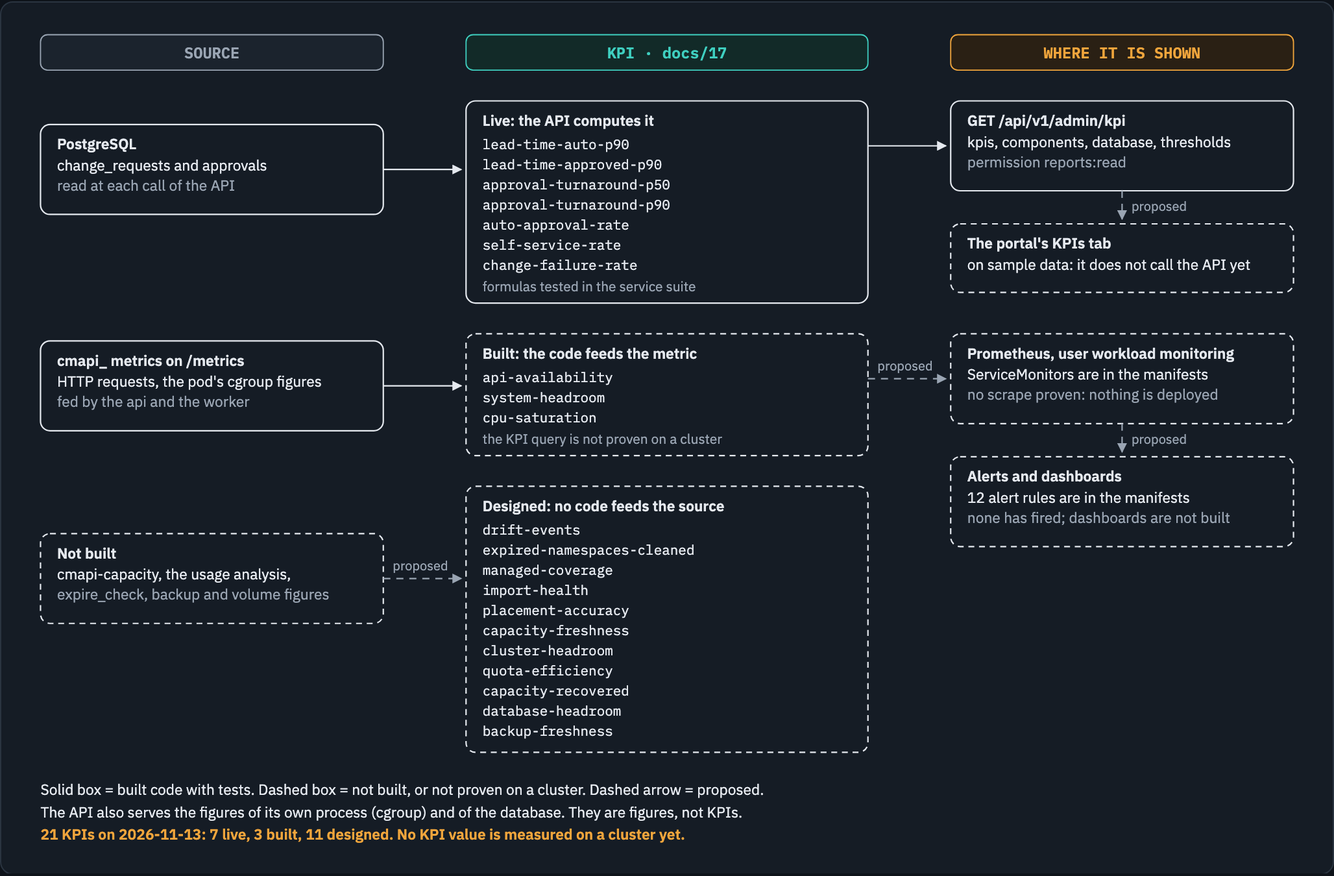
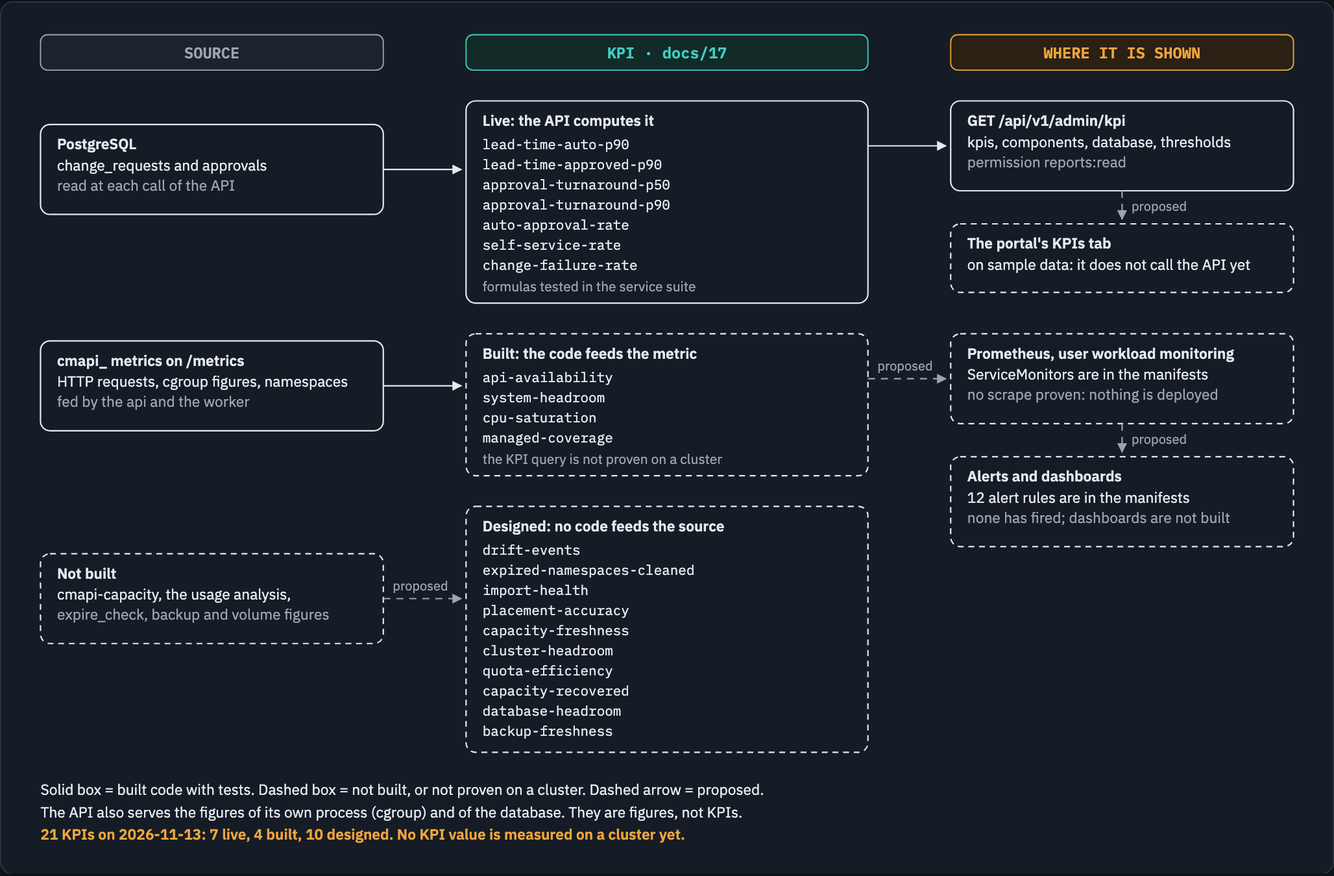
BUG-43: cmapi_namespaces is a collector over the watch caches, and the unfed cmapi_sync_drift_total is removed
Closes #172. cmapi_namespaces{cluster_id, state} counts managed, unmanaged and excluded namespaces at each scrape; a cluster that
is not listed has no sample. No code sees an OutOfSync state with no open request, so the drift counter is not declared until
that detection exists (Wave 2): a counter with no sample reads as no drift. docs/17: managed-coverage is built (7 live, 4 built,
10 designed), and the figure is rendered again. Fable 5.2 wrote each file of this commit.

Changed region(s): [[0.2802, 0.4978, 0.5603, 0.6844], [0.0311, 0.6222, 0.249, 0.7156], [0.1245, 0.4356, 0.249, 0.4667]]

diff --git a/docs/diagrams/kpis/source.html b/docs/diagrams/kpis/source.html
@@ -69,7 +69,7 @@ a { color: var(--remote); }
     <h2>The KPIs by status</h2>
     <figure>
       <div class="fig-scroll">
-        <svg viewBox="0 0 1100 711" role="img" aria-label="Seven KPIs are live: the API computes them from the database. Three are built: the code feeds their metrics, and a dashboard query is not proven. Eleven are designed. The API serves the live KPIs and the system figures; Prometheus, the dashboards and the alerts are not proven on a cluster.">
+        <svg viewBox="0 0 1100 711" role="img" aria-label="Seven KPIs are live: the API computes them from the database. Four are built: the code feeds their metrics, and a dashboard query is not proven. Ten are designed. The API serves the live KPIs and the system figures; Prometheus, the dashboards and the alerts are not proven on a cluster.">
           <defs><marker id="ahk" viewBox="0 0 10 10" refX="9" refY="5" markerWidth="7" markerHeight="7" orient="auto-start-reverse"><path d="M0,0 L10,5 L0,10 z" fill="context-stroke"/></marker></defs>
           <g font-family="IBM Plex Sans, sans-serif" font-size="12.5" fill="currentColor">
 <g font-family="IBM Plex Mono, monospace" font-size="13" font-weight="600"><rect x="20" y="14" width="290" height="30" rx="6" fill="var(--none-wash)" stroke="var(--none)"/><text x="165" y="34" text-anchor="middle" fill="var(--none)">SOURCE</text><rect x="380" y="14" width="340" height="30" rx="6" fill="var(--remote-wash)" stroke="var(--remote)"/><text x="550" y="34" text-anchor="middle" fill="var(--remote)">KPI  ·  docs/17</text><rect x="790" y="14" width="290" height="30" rx="6" fill="var(--host-wash)" stroke="var(--host)"/><text x="935" y="34" text-anchor="middle" fill="var(--host)">WHERE IT IS SHOWN</text></g>
@@ -83,17 +83,17 @@ a { color: var(--remote); }
 <text x="394" y="196" font-family="IBM Plex Mono, monospace" font-size="11.5">self-service-rate</text>
 <text x="394" y="213" font-family="IBM Plex Mono, monospace" font-size="11.5">change-failure-rate</text>
 <text x="394" y="231" font-size="11.5" fill="var(--muted)">formulas tested in the service suite</text>
-<rect x="380" y="267" width="340" height="103" rx="8" fill="var(--surface)" stroke="currentColor" stroke-width="1.2" stroke-dasharray="5 4"/>
+<rect x="380" y="267" width="340" height="120" rx="8" fill="var(--surface)" stroke="currentColor" stroke-width="1.2" stroke-dasharray="5 4"/>
 <text x="394" y="288" font-weight="600">Built: the code feeds the metric</text>
 <text x="394" y="308" font-family="IBM Plex Mono, monospace" font-size="11.5">api-availability</text>
 <text x="394" y="325" font-family="IBM Plex Mono, monospace" font-size="11.5">system-headroom</text>
 <text x="394" y="342" font-family="IBM Plex Mono, monospace" font-size="11.5">cpu-saturation</text>
-<text x="394" y="360" font-size="11.5" fill="var(--muted)">the KPI query is not proven on a cluster</text>
-<rect x="380" y="396" width="340" height="225" rx="8" fill="var(--surface)" stroke="currentColor" stroke-width="1.2" stroke-dasharray="5 4"/>
-<text x="394" y="417" font-weight="600">Designed: no code feeds the source</text>
-<text x="394" y="437" font-family="IBM Plex Mono, monospace" font-size="11.5">drift-events</text>
-<text x="394" y="454" font-family="IBM Plex Mono, monospace" font-size="11.5">expired-namespaces-cleaned</text>
-<text x="394" y="471" font-family="IBM Plex Mono, monospace" font-size="11.5">managed-coverage</text>
+<text x="394" y="359" font-family="IBM Plex Mono, monospace" font-size="11.5">managed-coverage</text>
+<text x="394" y="377" font-size="11.5" fill="var(--muted)">the KPI query is not proven on a cluster</text>
+<rect x="380" y="413" width="340" height="208" rx="8" fill="var(--surface)" stroke="currentColor" stroke-width="1.2" stroke-dasharray="5 4"/>
+<text x="394" y="434" font-weight="600">Designed: no code feeds the source</text>
+<text x="394" y="454" font-family="IBM Plex Mono, monospace" font-size="11.5">drift-events</text>
+<text x="394" y="471" font-family="IBM Plex Mono, monospace" font-size="11.5">expired-namespaces-cleaned</text>
 <text x="394" y="488" font-family="IBM Plex Mono, monospace" font-size="11.5">import-health</text>
 <text x="394" y="505" font-family="IBM Plex Mono, monospace" font-size="11.5">placement-accuracy</text>
 <text x="394" y="522" font-family="IBM Plex Mono, monospace" font-size="11.5">capacity-freshness</text>
@@ -109,15 +109,15 @@ a { color: var(--remote); }
 <polyline points="310,128 376,128" fill="none" stroke="currentColor" stroke-width="1.2" marker-end="url(#ahk)"/>
 <rect x="20" y="273" width="290" height="76" rx="8" fill="var(--surface)" stroke="currentColor" stroke-width="1.2"/>
 <text x="34" y="294" font-weight="600">cmapi_ metrics on /metrics</text>
-<text x="34" y="312">HTTP requests, the pod&#x27;s cgroup figures</text>
+<text x="34" y="312">HTTP requests, cgroup figures, namespaces</text>
 <text x="34" y="329" fill="var(--muted)">fed by the api and the worker</text>
 <polyline points="310,311 376,311" fill="none" stroke="currentColor" stroke-width="1.2" marker-end="url(#ahk)"/>
-<rect x="20" y="436" width="290" height="76" rx="8" fill="var(--surface)" stroke="currentColor" stroke-width="1.2" stroke-dasharray="5 4"/>
-<text x="34" y="457" font-weight="600">Not built</text>
-<text x="34" y="475">cmapi-capacity, the usage analysis,</text>
-<text x="34" y="492" fill="var(--muted)">expire_check, backup and volume figures</text>
-<polyline points="310,474 376,474" fill="none" stroke="var(--muted)" stroke-width="1.2" stroke-dasharray="6 5" marker-end="url(#ahk)"/>
-<text x="318" y="467" font-size="11" fill="var(--muted)" text-anchor="start">proposed</text>
+<rect x="20" y="453" width="290" height="76" rx="8" fill="var(--surface)" stroke="currentColor" stroke-width="1.2" stroke-dasharray="5 4"/>
+<text x="34" y="474" font-weight="600">Not built</text>
+<text x="34" y="492">cmapi-capacity, the usage analysis,</text>
+<text x="34" y="509" fill="var(--muted)">expire_check, backup and volume figures</text>
+<polyline points="310,491 376,491" fill="none" stroke="var(--muted)" stroke-width="1.2" stroke-dasharray="6 5" marker-end="url(#ahk)"/>
+<text x="318" y="484" font-size="11" fill="var(--muted)" text-anchor="start">proposed</text>
 <rect x="790" y="70" width="290" height="76" rx="8" fill="var(--surface)" stroke="currentColor" stroke-width="1.2"/>
 <text x="804" y="91" font-weight="600">GET /api/v1/admin/kpi</text>
 <text x="804" y="109">kpis, components, database, thresholds</text>
@@ -142,7 +142,7 @@ a { color: var(--remote); }
 <text x="943" y="360" font-size="11" fill="var(--muted)" text-anchor="start">proposed</text>
 <text x="20" y="657">Solid box = built code with tests. Dashed box = not built, or not proven on a cluster. Dashed arrow = proposed.</text>
 <text x="20" y="676">The API also serves the figures of its own process (cgroup) and of the database. They are figures, not KPIs.</text>
-<text x="20" y="695" fill="var(--host)" font-weight="600">21 KPIs on 2026-11-13: 7 live, 3 built, 11 designed. No KPI value is measured on a cluster yet.</text>
+<text x="20" y="695" fill="var(--host)" font-weight="600">21 KPIs on 2026-11-13: 7 live, 4 built, 10 designed. No KPI value is measured on a cluster yet.</text>
           </g>
         </svg>
       </div>

diff --git a/docs/diagrams/tools/draft-kpis.py b/docs/diagrams/tools/draft-kpis.py
@@ -27,8 +27,8 @@ b.append('<g font-family="IBM Plex Mono, monospace" font-size="13" font-weight="
          '<rect x="380" y="14" width="340" height="30" rx="6" fill="var(--remote-wash)" stroke="var(--remote)"/><text x="550" y="34" text-anchor="middle" fill="var(--remote)">KPI  ·  docs/17</text>'
          '<rect x="790" y="14" width="290" height="30" rx="6" fill="var(--host-wash)" stroke="var(--host)"/><text x="935" y="34" text-anchor="middle" fill="var(--host)">WHERE IT IS SHOWN</text></g>')
 live = ["lead-time-auto-p90", "lead-time-approved-p90", "approval-turnaround-p50", "approval-turnaround-p90", "auto-approval-rate", "self-service-rate", "change-failure-rate"]
-built = ["api-availability", "system-headroom", "cpu-saturation"]
-designed = ["drift-events", "expired-namespaces-cleaned", "managed-coverage", "import-health", "placement-accuracy",
+built = ["api-availability", "system-headroom", "cpu-saturation", "managed-coverage"]
+designed = ["drift-events", "expired-namespaces-cleaned", "import-health", "placement-accuracy",
             "capacity-freshness", "cluster-headroom", "quota-efficiency", "capacity-recovered", "database-headroom", "backup-freshness"]
 y1 = 70
 s, h1 = listbox(380, y1, 340, "Live: the API computes it", live, note="formulas tested in the service suite"); b.append(s)
@@ -39,7 +39,7 @@ s, h3 = listbox(380, y3, 340, "Designed: no code feeds the source", designed, da
 # sources
 b.append(box(20, y1 + 20, 290, 76, "PostgreSQL", ["change_requests and approvals", "read at each call of the API"]))
 b.append(arrow([(310, y1 + 58), (376, y1 + 58)], mid))
-b.append(box(20, y2 + 6, 290, 76, "cmapi_ metrics on /metrics", ["HTTP requests, the pod's cgroup figures", "fed by the api and the worker"]))
+b.append(box(20, y2 + 6, 290, 76, "cmapi_ metrics on /metrics", ["HTTP requests, cgroup figures, namespaces", "fed by the api and the worker"]))
 b.append(arrow([(310, y2 + 44), (376, y2 + 44)], mid))
 b.append(box(20, y3 + 40, 290, 76, "Not built", ["cmapi-capacity, the usage analysis,", "expire_check, backup and volume figures"], dashed=True))
 b.append(arrow([(310, y3 + 78), (376, y3 + 78)], mid, "proposed", 318, y3 + 71, stroke="var(--muted)", dashed=True))
@@ -55,9 +55,9 @@ b.append(arrow([(935, y2 + 76), (935, y2 + 100)], mid, "proposed", 943, y2 + 93,
 fy = y3 + h3 + 36
 b.append(f'<text x="20" y="{fy}">Solid box = built code with tests. Dashed box = not built, or not proven on a cluster. Dashed arrow = proposed.</text>')
 b.append(f'<text x="20" y="{fy+19}">The API also serves the figures of its own process (cgroup) and of the database. They are figures, not KPIs.</text>')
-b.append(f'<text x="20" y="{fy+38}" fill="var(--host)" font-weight="600">21 KPIs on 2026-11-13: 7 live, 3 built, 11 designed. No KPI value is measured on a cluster yet.</text>')
-aria = ("Seven KPIs are live: the API computes them from the database. Three are built: the code feeds their metrics, and a dashboard query is not proven. "
-        "Eleven are designed. The API serves the live KPIs and the system figures; Prometheus, the dashboards and the alerts are not proven on a cluster.")
+b.append(f'<text x="20" y="{fy+38}" fill="var(--host)" font-weight="600">21 KPIs on 2026-11-13: 7 live, 4 built, 10 designed. No KPI value is measured on a cluster yet.</text>')
+aria = ("Seven KPIs are live: the API computes them from the database. Four are built: the code feeds their metrics, and a dashboard query is not proven. "
+        "Ten are designed. The API serves the live KPIs and the system figures; Prometheus, the dashboards and the alerts are not proven on a cluster.")
 cap = ("Each KPI has one row in docs/17 with its formula and target. The live KPIs come from the request table, so the API can answer without Prometheus. "
        "The built KPIs need a Prometheus query, which waits for the first deployment.")
 out = TARGET

diff --git a/cmapi/src/cmapi/core/kpi.py b/cmapi/src/cmapi/core/kpi.py
@@ -17,6 +17,8 @@ from prometheus_client import REGISTRY
 from prometheus_client.core import CounterMetricFamily, GaugeMetricFamily
 from sqlalchemy import text
 
+from cmapi.core.naming import reserved
+
 CGROUP = Path("/sys/fs/cgroup")
 COMPONENT = os.environ.get("CMAPI_COMPONENT", "api")
 
@@ -86,13 +88,61 @@ class CgroupCollector:
                 yield c
 
 
+def namespace_counts(registry: Any, reserved_patterns: tuple[str, ...]) -> dict[str, dict[str, int]]:
+    """cluster ID -> {managed, unmanaged, excluded}, from the watch cache of each cluster whose namespaces are listed.
+
+    managed: the label cmapi.net/managed=true. excluded: a name that nobody may ask for (core/naming.py: the built-in names
+    and the instance's reservedPatterns), so cmapi can never manage it. unmanaged: each other namespace. A cluster with no
+    cache, or whose first list has not ended, has no entry: not measured, never 0. docs/17, "Managed coverage"."""
+    out: dict[str, dict[str, int]] = {}
+    for cluster_id, st in sorted(registry.clusters.items()):
+        cache = st.cache
+        if cache is None or cache.state["Namespace"].last_good is None:
+            continue
+        counts = {"managed": 0, "unmanaged": 0, "excluded": 0}
+        for obj in cache.all("Namespace"):
+            meta = obj["metadata"]
+            if (meta.get("labels") or {}).get("cmapi.net/managed") == "true":
+                counts["managed"] += 1
+            elif reserved(meta["name"], reserved_patterns) is not None:
+                counts["excluded"] += 1
+            else:
+                counts["unmanaged"] += 1
+        out[cluster_id] = counts
+    return out
+
+
+class NamespacesCollector:
+    """Exports cmapi_namespaces{cluster_id, state} from the watch caches at each scrape (#172). The source is set by
+    register_collectors, so a process with no registry exports no sample."""
+
+    def __init__(self) -> None:
+        self.registry: Any = None
+        self.reserved_patterns: tuple[str, ...] = ()
+
+    def collect(self):
+        g = GaugeMetricFamily("cmapi_namespaces", "Namespaces by management state: managed, unmanaged or excluded",
+                              labels=["cluster_id", "state"])
+        if self.registry is not None:
+            for cluster_id, counts in namespace_counts(self.registry, self.reserved_patterns).items():
+                for state, n in counts.items():
+                    g.add_metric([cluster_id, state], n)
+        yield g
+
+
+_namespaces = NamespacesCollector()
 _registered = False
 
 
-def register_collectors() -> None:
+def register_collectors(registry: Any = None, reserved_patterns: tuple[str, ...] = ()) -> None:
+    """Registers the collectors one time for the process. `registry` is the ClusterRegistry whose watch caches give
+    cmapi_namespaces; the last caller's registry is the one that is read (a process has one)."""
     global _registered
+    if registry is not None:
+        _namespaces.registry, _namespaces.reserved_patterns = registry, tuple(reserved_patterns)
     if not _registered:
         REGISTRY.register(CgroupCollector())
+        REGISTRY.register(_namespaces)
         _registered = True
 
 

diff --git a/cmapi/tests/service/test_namespaces_metric.py b/cmapi/tests/service/test_namespaces_metric.py
@@ -1,0 +1,47 @@
+"""#172 (BUG-43): cmapi_namespaces has a sample for each state of each listed cluster, and cmapi_sync_drift_total is not
+declared while no code feeds it. docs/17: "Managed coverage" and "Drift events"."""
+from __future__ import annotations
+
+import re
+
+from prometheus_client import REGISTRY, generate_latest
+
+import cmapi.core.observability as observability
+from cmapi.core.kpi import namespace_counts
+from test_flow import NS, OLA, auth, run_jobs
+
+
+def samples() -> dict[tuple[str, str], float]:
+    text = generate_latest(REGISTRY).decode()
+    return {(m[1], m[2]): float(m[3]) for m in re.finditer(r'^cmapi_namespaces\{cluster_id="([^"]+)",state="([^"]+)"\} (\S+)$', text, re.M)}
+
+
+def test_cmapi_namespaces_counts_managed_unmanaged_and_excluded_from_the_watch_cache(world):
+    client, ctx, git, kube, validator, keys = world
+    assert client.post("/api/v1/clusters/CRC/namespaces", json=NS, headers=auth(keys, "ola", **OLA)).status_code == 202
+    run_jobs(ctx)                                             # payments-dev: synced, with the label cmapi.net/managed=true
+    kube.add_unmanaged_namespace("legacy-app")               # another project's namespace
+    kube.add_unmanaged_namespace("openshift-monitoring")     # a built-in reserved name
+    kube.add_unmanaged_namespace("ocp-tools")                # the instance's reservedPatterns: ocp-*
+    ctx.registry.cache("CRC")._list("Namespace")
+    assert samples() == {("CRC", "managed"): 1.0, ("CRC", "unmanaged"): 1.0, ("CRC", "excluded"): 2.0}
+    kube.add_unmanaged_namespace("second-app")
+    ctx.registry.cache("CRC")._list("Namespace")
+    assert samples()[("CRC", "unmanaged")] == 2.0, "the value is read at each scrape"
+
+
+def test_a_cluster_whose_namespaces_are_not_listed_has_no_sample(world):
+    """Not measured is absent, never 0: a 0 would read as a cluster with no namespace."""
+    client, ctx, git, kube, validator, keys = world
+    state = ctx.registry.cache("CRC").state["Namespace"]
+    listed, state.last_good = state.last_good, None
+    try:
+        assert namespace_counts(ctx.registry, ()) == {} and samples() == {}
+    finally:
+        state.last_good = listed
+    assert ("CRC", "managed") in samples()
+
+
+def test_no_drift_counter_is_declared_while_no_code_feeds_it(world):
+    assert not hasattr(observability, "SYNC_DRIFT") and not hasattr(observability, "NAMESPACES")
+    assert "cmapi_sync_drift" not in generate_latest(REGISTRY).decode()

diff --git a/cmapi/src/cmapi/core/observability.py b/cmapi/src/cmapi/core/observability.py
@@ -43,8 +43,8 @@ CLUSTER_STATUS = Gauge("cmapi_cluster_status", "1 for the cluster's current impo
 CLUSTER_CALLS = Counter("cmapi_cluster_api_calls_total", "Cluster API calls", ["cluster_id", "result"])
 OPEN_REQUEST_AGE = Gauge("cmapi_open_change_requests_oldest_age_seconds", "Age of the oldest open request", ["status", "environment"])
 CONFIG_INFO = Gauge("cmapi_config_info", "Hash of the loaded configuration", ["hash"])
-SYNC_DRIFT = Counter("cmapi_sync_drift_total", "OutOfSync seen with no open request", ["cluster_id"])
-NAMESPACES = Gauge("cmapi_namespaces", "Namespaces by management state", ["cluster_id", "state"])
+# cmapi_namespaces is a collector over the watch caches (core/kpi.py). cmapi_sync_drift_total is not declared: no code sees an
+# OutOfSync state with no open request yet, and a counter with no sample reads as "no drift" (#172, docs/17 "Drift events").
 
 
 _METHODS = frozenset({"GET", "HEAD", "POST", "PUT", "PATCH", "DELETE", "OPTIONS"})

diff --git a/cmapi/src/cmapi/main.py b/cmapi/src/cmapi/main.py
@@ -41,7 +41,7 @@ def create_app(s: Settings | None = None, ctx: AppContext | None = None) -> Fast
 
     @asynccontextmanager
     async def lifespan(app: FastAPI):
-        register_collectors()
+        register_collectors(ctx.registry, ctx.pipeline.reserved)
         if s.metrics_port:
             start_metrics(s.metrics_port, ctx.cfg.name, s.component)
         log.info("startup", instance=ctx.cfg.name, issuer=issuer, audience=ctx.audience, version=__version__,

diff --git a/cmapi/src/cmapi/worker.py b/cmapi/src/cmapi/worker.py
@@ -173,7 +173,7 @@ def run(s: Settings | None = None) -> None:
     configure_logging(s.log_level)
     os.environ.setdefault("CMAPI_COMPONENT", "worker")
     ctx = build_context(s)
-    register_collectors()
+    register_collectors(ctx.registry, ctx.pipeline.reserved)
     if s.metrics_port:
         start_metrics(s.metrics_port, ctx.cfg.name, "worker")
     worker = Worker(ctx, s.worker_id or socket.gethostname(), s.worker_poll_seconds)

diff --git a/docs/17-kpis.md b/docs/17-kpis.md
@@ -30,14 +30,14 @@ Each KPI is measured for one instance. A ratio is a number from 0 to 1. A value 
 | `system-headroom` | System headroom (p95, 7 d) | Does each cmapi component have room? The platform team raises a limit | Memory used divided by its limit, and CPU used divided by its limit, for each component | `cmapi_process_memory_bytes`, `cmapi_process_memory_limit_bytes`, `cmapi_process_cpu_usage_seconds_total`, `cmapi_process_cpu_limit_cores`, label `component` | Under 80% for each component | `CmapiMemoryNearLimit`, shipped | `built` |
 | `cpu-saturation` | CPU saturation | Does a component hit its CPU limit while use looks low? The platform team raises the limit | Throttled periods divided by periods, for each component | `cmapi_process_cpu_throttled_periods_total`, `cmapi_process_cpu_periods_total`, label `component` | Under 1% of periods | `CmapiCpuThrottled`, shipped | `built` |
 | `self-service-rate` | Self-service rate | Do teams finish their requests without the platform team? The product owner acts | `synced` requests with no approval that counted for the platform group, divided by `synced` requests | Database, `change_requests` and `approvals.counted_for`. The platform group is `defaults.group` of `approval-rules.yaml`. A request with an approval from before migration `0004` is in neither part | Over 80% | None | `live` |
-| `drift-events` | Drift events (7 d) | Does someone change a cluster outside Git? The platform team finds the cause | Count of OutOfSync states with no open request | `cmapi_sync_drift_total{cluster_id}`. The metric is declared, and no code feeds it (#172) | 0 in a week | `CmapiDriftDetected`, designed | `designed` |
+| `drift-events` | Drift events (7 d) | Does someone change a cluster outside Git? The platform team finds the cause | Count of OutOfSync states with no open request | No metric yet. `cmapi_sync_drift_total{cluster_id}` is the designed name. No code sees an OutOfSync state with no open request, so #172 removed the declared counter: a counter with no sample reads as "no drift". The detection comes with Argo CD (Wave 2) | 0 in a week | `CmapiDriftDetected`, designed | `designed` |
 | `expired-namespaces-cleaned` | Expired namespaces cleaned | Do expired namespaces leave the clusters? The platform team confirms the prunes | Namespaces past the grace period with no delete request, plus deletes that wait for a prune for more than 24 h | The expiration report. The job `expire_check` is not built | 0 | `CmapiPruneStuck`, shipped, for the second part | `designed` |
 | `placement-accuracy` | Placement accuracy | Does placement keep each cluster inside its overcommit limit? The capacity owner acts | Overcommit breaches in the 30-day backtest | `cmapi_placement_backtest_breaches`. `cmapi-capacity` is not built | 0 | None | `designed` |
 | `capacity-freshness` | Capacity freshness | Is each capacity decision made on new data? The platform team acts | Clusters with a snapshot newer than two intervals, divided by clusters | `cmapi_capacity_snapshot_age_seconds{cluster_id}`. Not built | 100% | `CmapiCapacitySnapshotStale`, designed | `designed` |
 | `cluster-headroom` | Cluster headroom | Which cluster runs out of quota room? The capacity owner adds capacity | Quota headroom of each cluster, for CPU and for memory | `cmapi_cluster_quota_headroom{cluster_id, environment, region, resource}`. Not built | Above 20% on each cluster, for each resource | `CmapiCapacityTargetBreached`, designed | `designed` |
 | `quota-efficiency` | Quota efficiency (median) | Do namespaces use the quota that they hold? The teams and the capacity owner act | Median of used divided by quota, at the 14-day peak, for each namespace | `namespace_verdicts`. The usage analysis is not built | Over 40% | None | `designed` |
 | `capacity-recovered` | Capacity recovered | What do the rightsizing recommendations give back? The product owner reports it | Cores that applied recommendations freed, for each month | `cmapi_recommendations{state}`, `recommendations`. Not built | Tracked, no target | None | `designed` |
-| `managed-coverage` | Managed coverage | How much of each cluster does cmapi manage? The product owner follows adoption | Managed namespaces divided by all namespaces minus the excluded ones, for each cluster | `cmapi_namespaces{cluster_id, state}`. The metric is declared, and no code feeds it (#172) | 90% within two quarters of launch | None | `designed` |
+| `managed-coverage` | Managed coverage | How much of each cluster does cmapi manage? The product owner follows adoption | Managed namespaces divided by all namespaces minus the excluded ones, for each cluster | `cmapi_namespaces{cluster_id, state}`, with the states `managed`, `unmanaged` and `excluded` (a reserved name), read from the watch cache at each scrape. The query: `managed / (managed + unmanaged)` | 90% within two quarters of launch | None | `built` |
 | `import-health` | Import health | Are the cluster credentials rotated in time? The platform team rotates a token | Import tokens rotated before 90% of their life, divided by import tokens | `cmapi_cluster_token_expiry_seconds{cluster_id}`. Not built | 100% | `CmapiClusterTokenExpiring`, designed | `designed` |
 | `database-headroom` | Database headroom | Does the database have room? The platform team acts before it is full | Connections divided by `max_connections`; volume used divided by its size; days until the volume is full | `GET /api/v1/admin/kpi` gives the connections and the size as figures (`database`). The `cmapi_db_*` metrics and the volume figures are not built | Under 80%; more than 90 days | `CmapiDbConnectionsHigh`, `CmapiDbVolumeFilling`, designed | `designed` |
 | `backup-freshness` | Backup freshness | Can the database be restored? The platform team acts on an old backup | Age of the last good backup, and of the last restore test | `cmapi_db_backup_last_success_timestamp_seconds`. Not built | Under 26 h; a restore test each month | `CmapiDbBackupStale`, designed | `designed` |
@@ -88,7 +88,7 @@ What cmapi does not measure, on purpose:
 <picture>
   <source media="(prefers-color-scheme: dark)" srcset="diagrams/kpis/kpis.dark.png">
   <source srcset="diagrams/kpis/kpis.light.png">
-  <img alt="Seven KPIs are live: the API computes them from the database. Three are built: the code feeds their metrics, and a dashboard query is not proven. Eleven are designed. The API serves the live KPIs and the system figures; Prometheus, the dashboards and the alerts are not proven on a cluster." src="diagrams/kpis/kpis.light.png">
+  <img alt="Seven KPIs are live: the API computes them from the database. Four are built: the code feeds their metrics, and a dashboard query is not proven. Ten are designed. The API serves the live KPIs and the system figures; Prometheus, the dashboards and the alerts are not proven on a cluster." src="diagrams/kpis/kpis.light.png">
 </picture>
 <!-- markdownlint-enable MD033 -->
 
@@ -100,8 +100,8 @@ database (change_requests, approvals) -> GET /api/v1/admin/kpi -> the portal's K
           auto-approval-rate, self-service-rate, change-failure-rate
 the process's own cgroup, and pg_stat_activity -> the same response: components, database (figures, not KPIs)
 /metrics -> Prometheus (user workload monitoring) -> dashboards and alerts      (not proven on a cluster)
-    built: api-availability, system-headroom, cpu-saturation
-    designed: the other eleven KPIs
+    built: api-availability, system-headroom, cpu-saturation, managed-coverage
+    designed: the other ten KPIs
 ```
 
 ## The API contract
@@ -132,6 +132,7 @@ One defect was in that sample: `walBytes` was a text, not a number (#173). It is
 |---|---|---|
 | The six live KPIs, their formulas, null for an empty denominator, the cgroup figures, the permission | The service suite on macOS, PostgreSQL 16 on `127.0.0.1:55432`, 2026-11-13: `tests/service/test_kpis.py` | 5 passed. On the code before the review, 4 of the 5 failed |
 | The self-service rate: two synced requests, one approved by a team group and one by the platform group, give 0.5; a request with an approval that has no stored group is in neither part | The same suite, `tests/service/test_self_service_rate.py` | 2 passed. On the code before #171 the API had no such row |
+| `cmapi_namespaces`: a managed, an unmanaged and two reserved namespaces give 1, 1 and 2; a cluster that is not listed has no sample; no drift counter is declared | The same suite, `tests/service/test_namespaces_metric.py` | 3 passed. On the code before #172 the metric had no sample |
 | Any KPI value on a cluster, Prometheus scraping, a dashboard, an alert that fires | CRC | Not run. The CRC work is stopped (#157) |
 
 ## Diagram sources

diff --git a/docs/10-architecture-review.md b/docs/10-architecture-review.md
@@ -82,7 +82,7 @@ What exists, by name (every one defined in `core/observability.py` or `worker.py
 | Inbound HTTP (RED, route template as the label, never the path) | `cmapi_http_requests_total`, `cmapi_http_request_duration_seconds` | `tests/service/test_review_f_obs.py` |
 | Authorization and environments | `cmapi_authz_denied_total`, `cmapi_environment_not_served_total` | same |
 | Change requests | `cmapi_change_requests_total`, `cmapi_change_lead_time_seconds`, `cmapi_approval_wait_seconds`, `cmapi_open_change_requests_oldest_age_seconds`, `cmapi_auto_approvals_total`, `cmapi_auto_approval_fallbacks_total`, `cmapi_auto_approval_paused` | same |
-| Git host and clusters | `cmapi_git_operations_total`, `cmapi_git_operation_duration_seconds`, `cmapi_cluster_api_calls_total`, `cmapi_cluster_status`, `cmapi_namespaces`, `cmapi_sync_drift_total`, `cmapi_validation_failures_total` | same |
+| Git host and clusters | `cmapi_git_operations_total`, `cmapi_git_operation_duration_seconds`, `cmapi_cluster_api_calls_total`, `cmapi_cluster_status`, `cmapi_namespaces`, `cmapi_validation_failures_total` | same |
 | Worker | `cmapi_jobs_pending`, `cmapi_job_failures_total`, `cmapi_worker_last_loop_timestamp_seconds` (the "healthy but dead loop" lesson from group-sync-dashboard's `GroupSyncDashboardNotPolling`; alert `CmapiWorkerNotLooping` uses `absent()` so a gone worker fires too) | `test_review_g_chart.py`, `test_review_i_crosscheck.py` |
 | Build | `cmapi_build_info`, `cmapi_config_info` | — |
 
